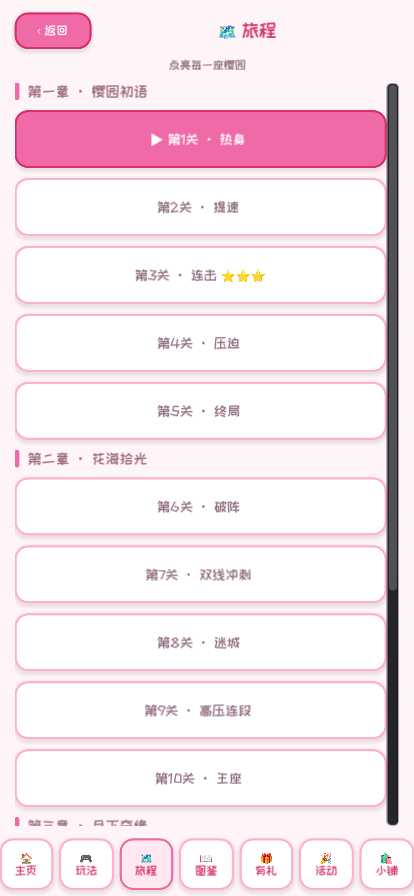
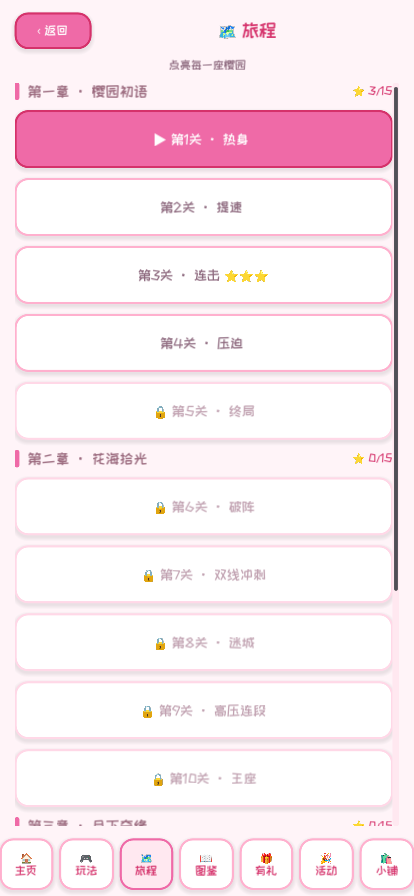
feat: 界面四轮——代码生成纹理根治最后一批工程默认件：滑杆把手三态/勾选框勾选与空态/滚动条 grabber 与滚槽全部 Image 逐像素生成装进全局主题（无美术依赖）；数据页 30+ 行收敛为成长足迹/每日与攀登/玩法纪录三段分区；旅程章节头带 ⭐ 星级进度尾巴（section_header 可选 tail）；新渲染字符串全部过 check_copy_chars 字符池对拍

diff --git a/progress.md b/progress.md
@@ -1222,3 +1222,15 @@ Original prompt: 哎，继续完善我们的 GoDota 框架开发的 连连看游
 - **设置面板滑杆品牌化**：主音量默认黑槽是全弹窗最"工程件"的元素——凹槽改玫瑰浅粉、填充段改玫瑰（grabber 图标为引擎纹理不动）；行标签 7a5064→8f6b80 归墨系。
 - 弹窗样张结论：暂停面板（主次按钮分层）与引导面板（分区+主 CTA）本就达标，未动。
 - Validation: 受影响探针先行全绿（page_router/page_probe/panels/start_screen/hud_timers/economy）；全量 56 项 rc 全 0；16 张样张（含 3 张弹窗）复验达标。零新增渲染字符。推送后待 CI deploy 回填。
+
+## 2026-09-29 (Round 34：界面四轮——代码生成纹理 + 数据页分组 + 章节星级)
+
+- Context: 用户继续定向"优化界面细节"。上轮遗留的最后一批"工程默认件"（勾选框/滑杆把手/滚动条 grabber 都是引擎内置图标纹理，StyleBox 够不着）本轮用 **Image 逐像素生成品牌纹理** 根治——无美术资源依赖，装进全局主题一次管全场。
+- **ui_style 新增纹理工厂**（`init_control_textures(theme)`，由 ui_fonts.init_theme 装载）：
+  - `_disc_texture`：圆盘 SDF（AA 边缘）——滑杆把手（玫瑰圆钮+浅玫瑰环，三态）与未勾选框（白圆细环）；
+  - `_check_texture`：实心玫瑰圆 + 白对勾（两段线段距离场，`_seg_distance` 助手）——勾选框 checked/radio_checked；
+  - `_pill_texture`：圆角胶囊 SDF——VScrollBar/HScrollBar 把手三态（常态 60% 透明玫瑰、悬停 85%、按下深玫瑰）+ 滚槽玫瑰浅粉 stylebox。
+- **数据页三段分组**：`_stats_rows` 从平铺 30+ 行改为 成长足迹/每日与攀登/玩法纪录 三段（`page_ui.section_header` 分隔），玩法纪录段仍由 MODES 注册表派生零手写。分区标题字符（🏆📅🎮 + 标题词）全部经 check_copy_chars 对拍在 1446 字符池内（🗓 不在池中，弃用）。
+- **旅程章节星级尾巴**：章节头右侧 "⭐ x/y"（level_stars 求和/章节满星），收集进度直接写在地图上；section_header 加可选 tail 参数。
+- 结算面板勘察结论：过关"面板"实为顶部 stage_panel_label 字幕（非独立面板），无需样板化，跳过。
+- Validation: 受影响探针先行全绿（ui_fonts/panels/page_probe/page_router/economy）；全量 56 项 rc 全 0；web_entry rc=0；shell_audit clean；巡礼样张复验（滚动条/勾选框/滑杆全场生效）。零新增渲染字符。推送后待 CI deploy 回填。
